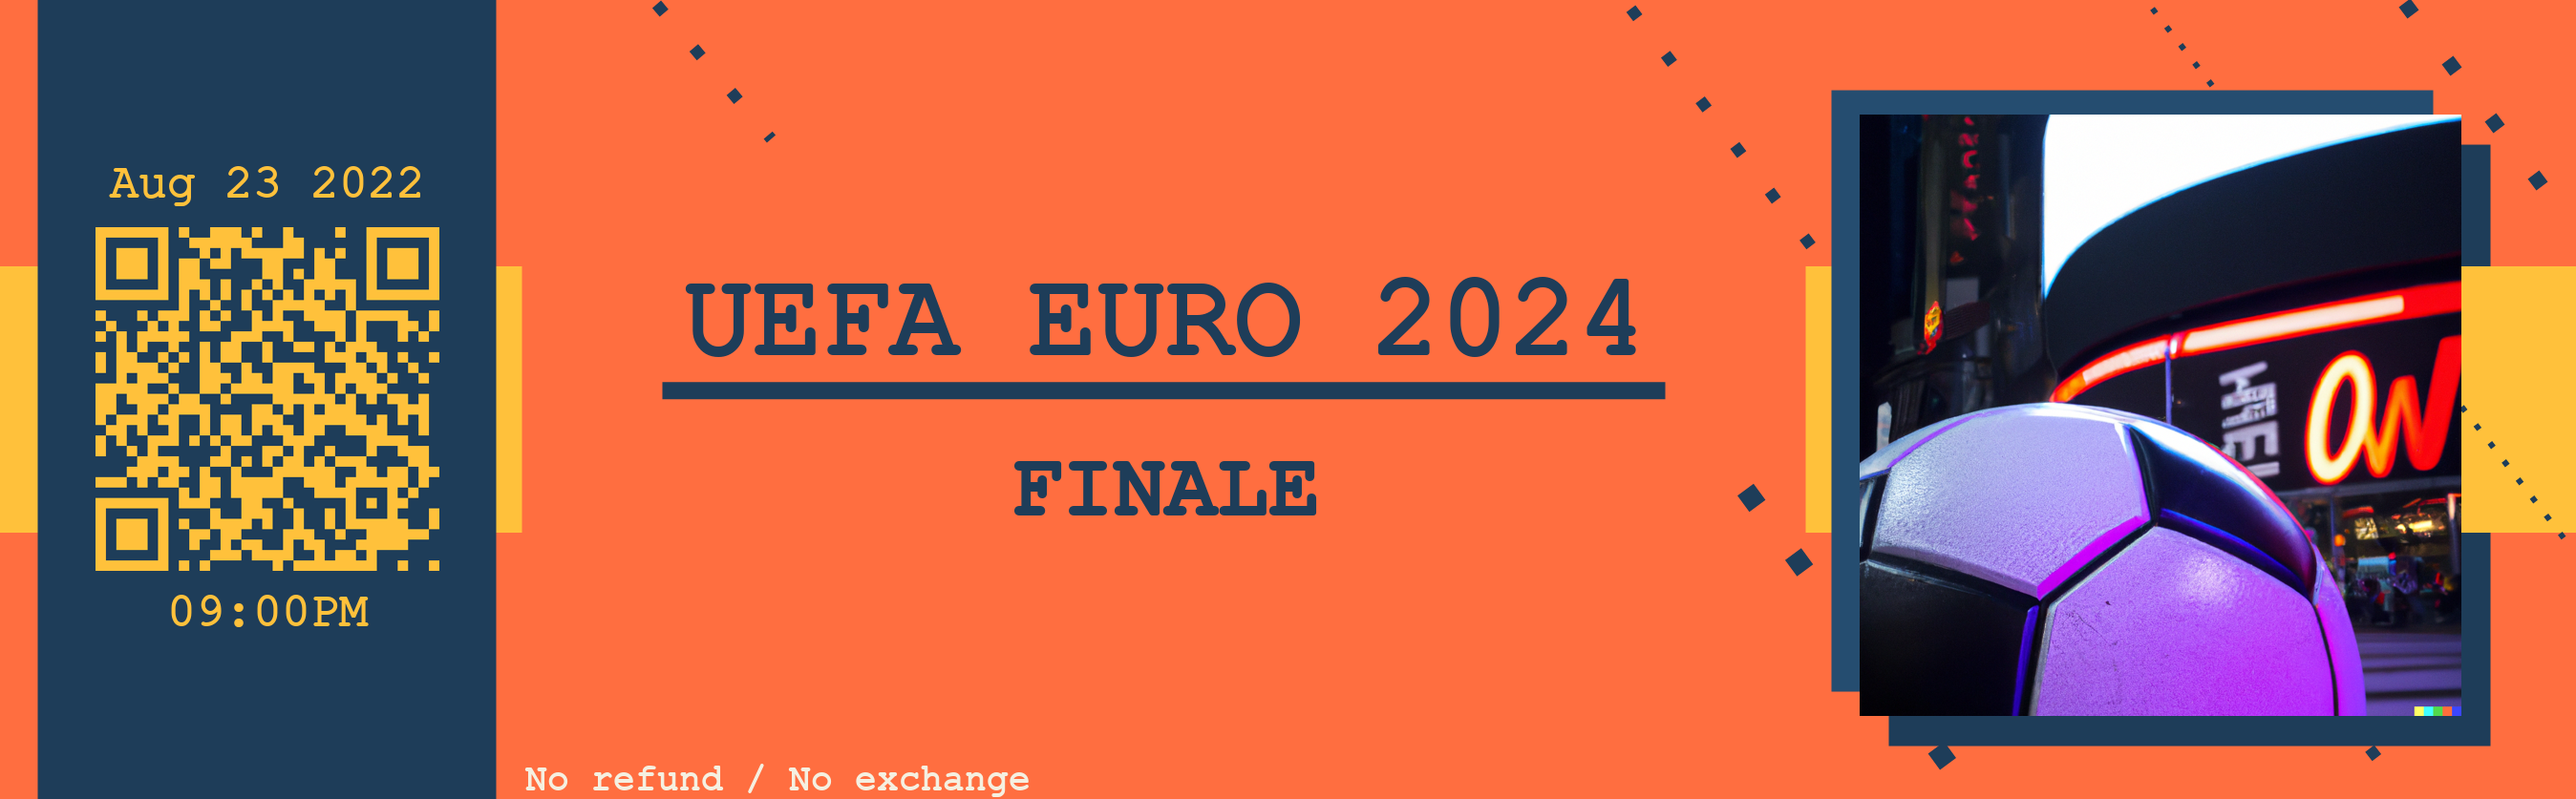
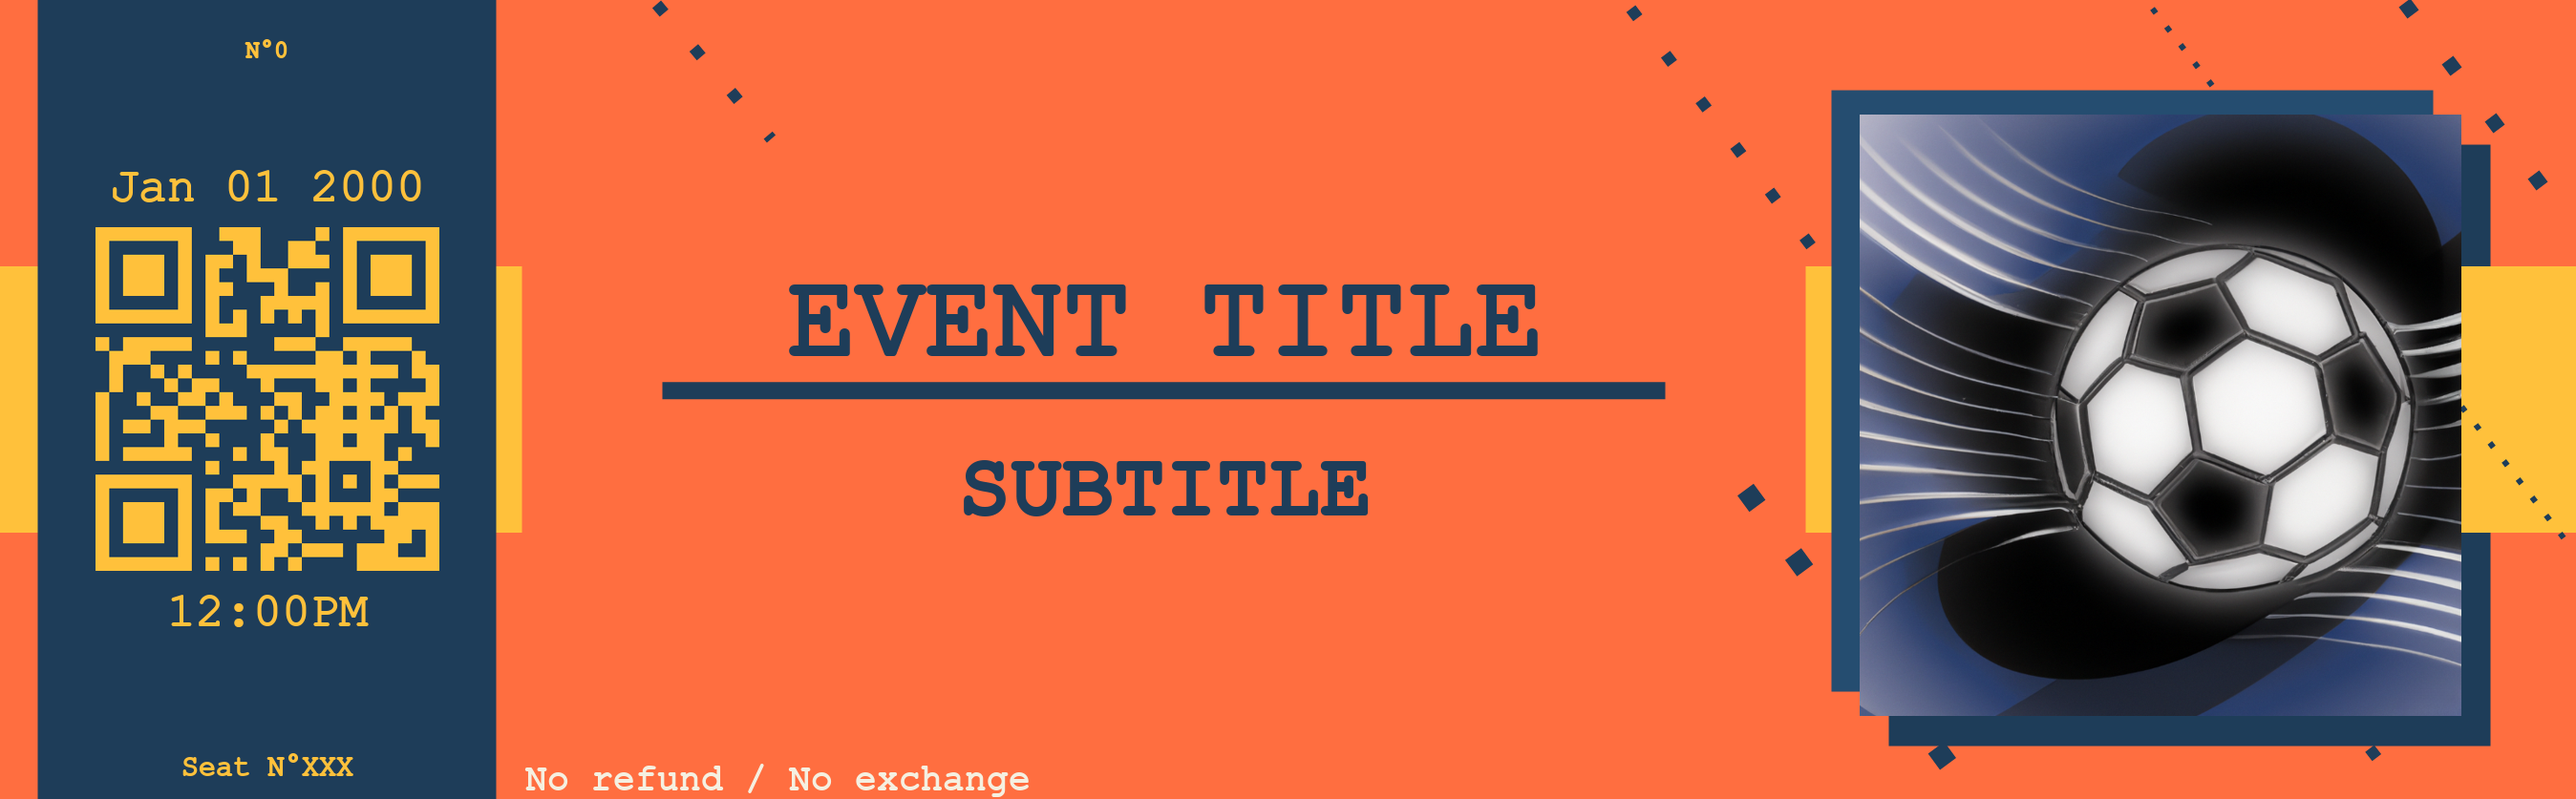
Change readme picture

diff --git a/main.py b/main.py
@@ -4,21 +4,21 @@ import os, random, glob
 
 # Picture data
 _url = "https://www.google.fr/"
-_ticket_id = 10
+_ticket_id = 0
 _picture_path = random.choice(glob.glob("ressources/football/*.png"))
 
 # Create self informations    
 informations = package.TicketGenerator(
     id = _ticket_id,
     url = _url,
-    price = 89.00,
+    price = 10.00,
     picture = _picture_path,
-    title = "UEFA Euro 2024",
-    subtitle = "FINALE",
-    date = "23/08/2024 21:00:00",
+    title = "event title",
+    subtitle = "subtitle",
+    date = "01/01/2000 12:00:00",
     wallet = "0xC841962098B5592A415493992cd7F521347632f7",
-    location = "Stade de France, Paris",
-    seat = "10D",
+    location = "Here is the location",
+    seat = "XXX",
 )
 
 # Generate ticket image
@@ -31,8 +31,8 @@ json_data = informations.generate_json()
 # img.show()
 
 # Save ticket image
-img.save("generated_tickets/picture/football_" + str(_ticket_id) + ".png","PNG")
+img.save("generated_tickets/picture/test_" + str(_ticket_id) + ".png","PNG")
 
 # Save ticket json
-with open("generated_tickets/json/football_" + str(_ticket_id) + ".json", 'w') as outfile:
+with open("generated_tickets/json/test_" + str(_ticket_id) + ".json", 'w') as outfile:
     outfile.write(json_data)
